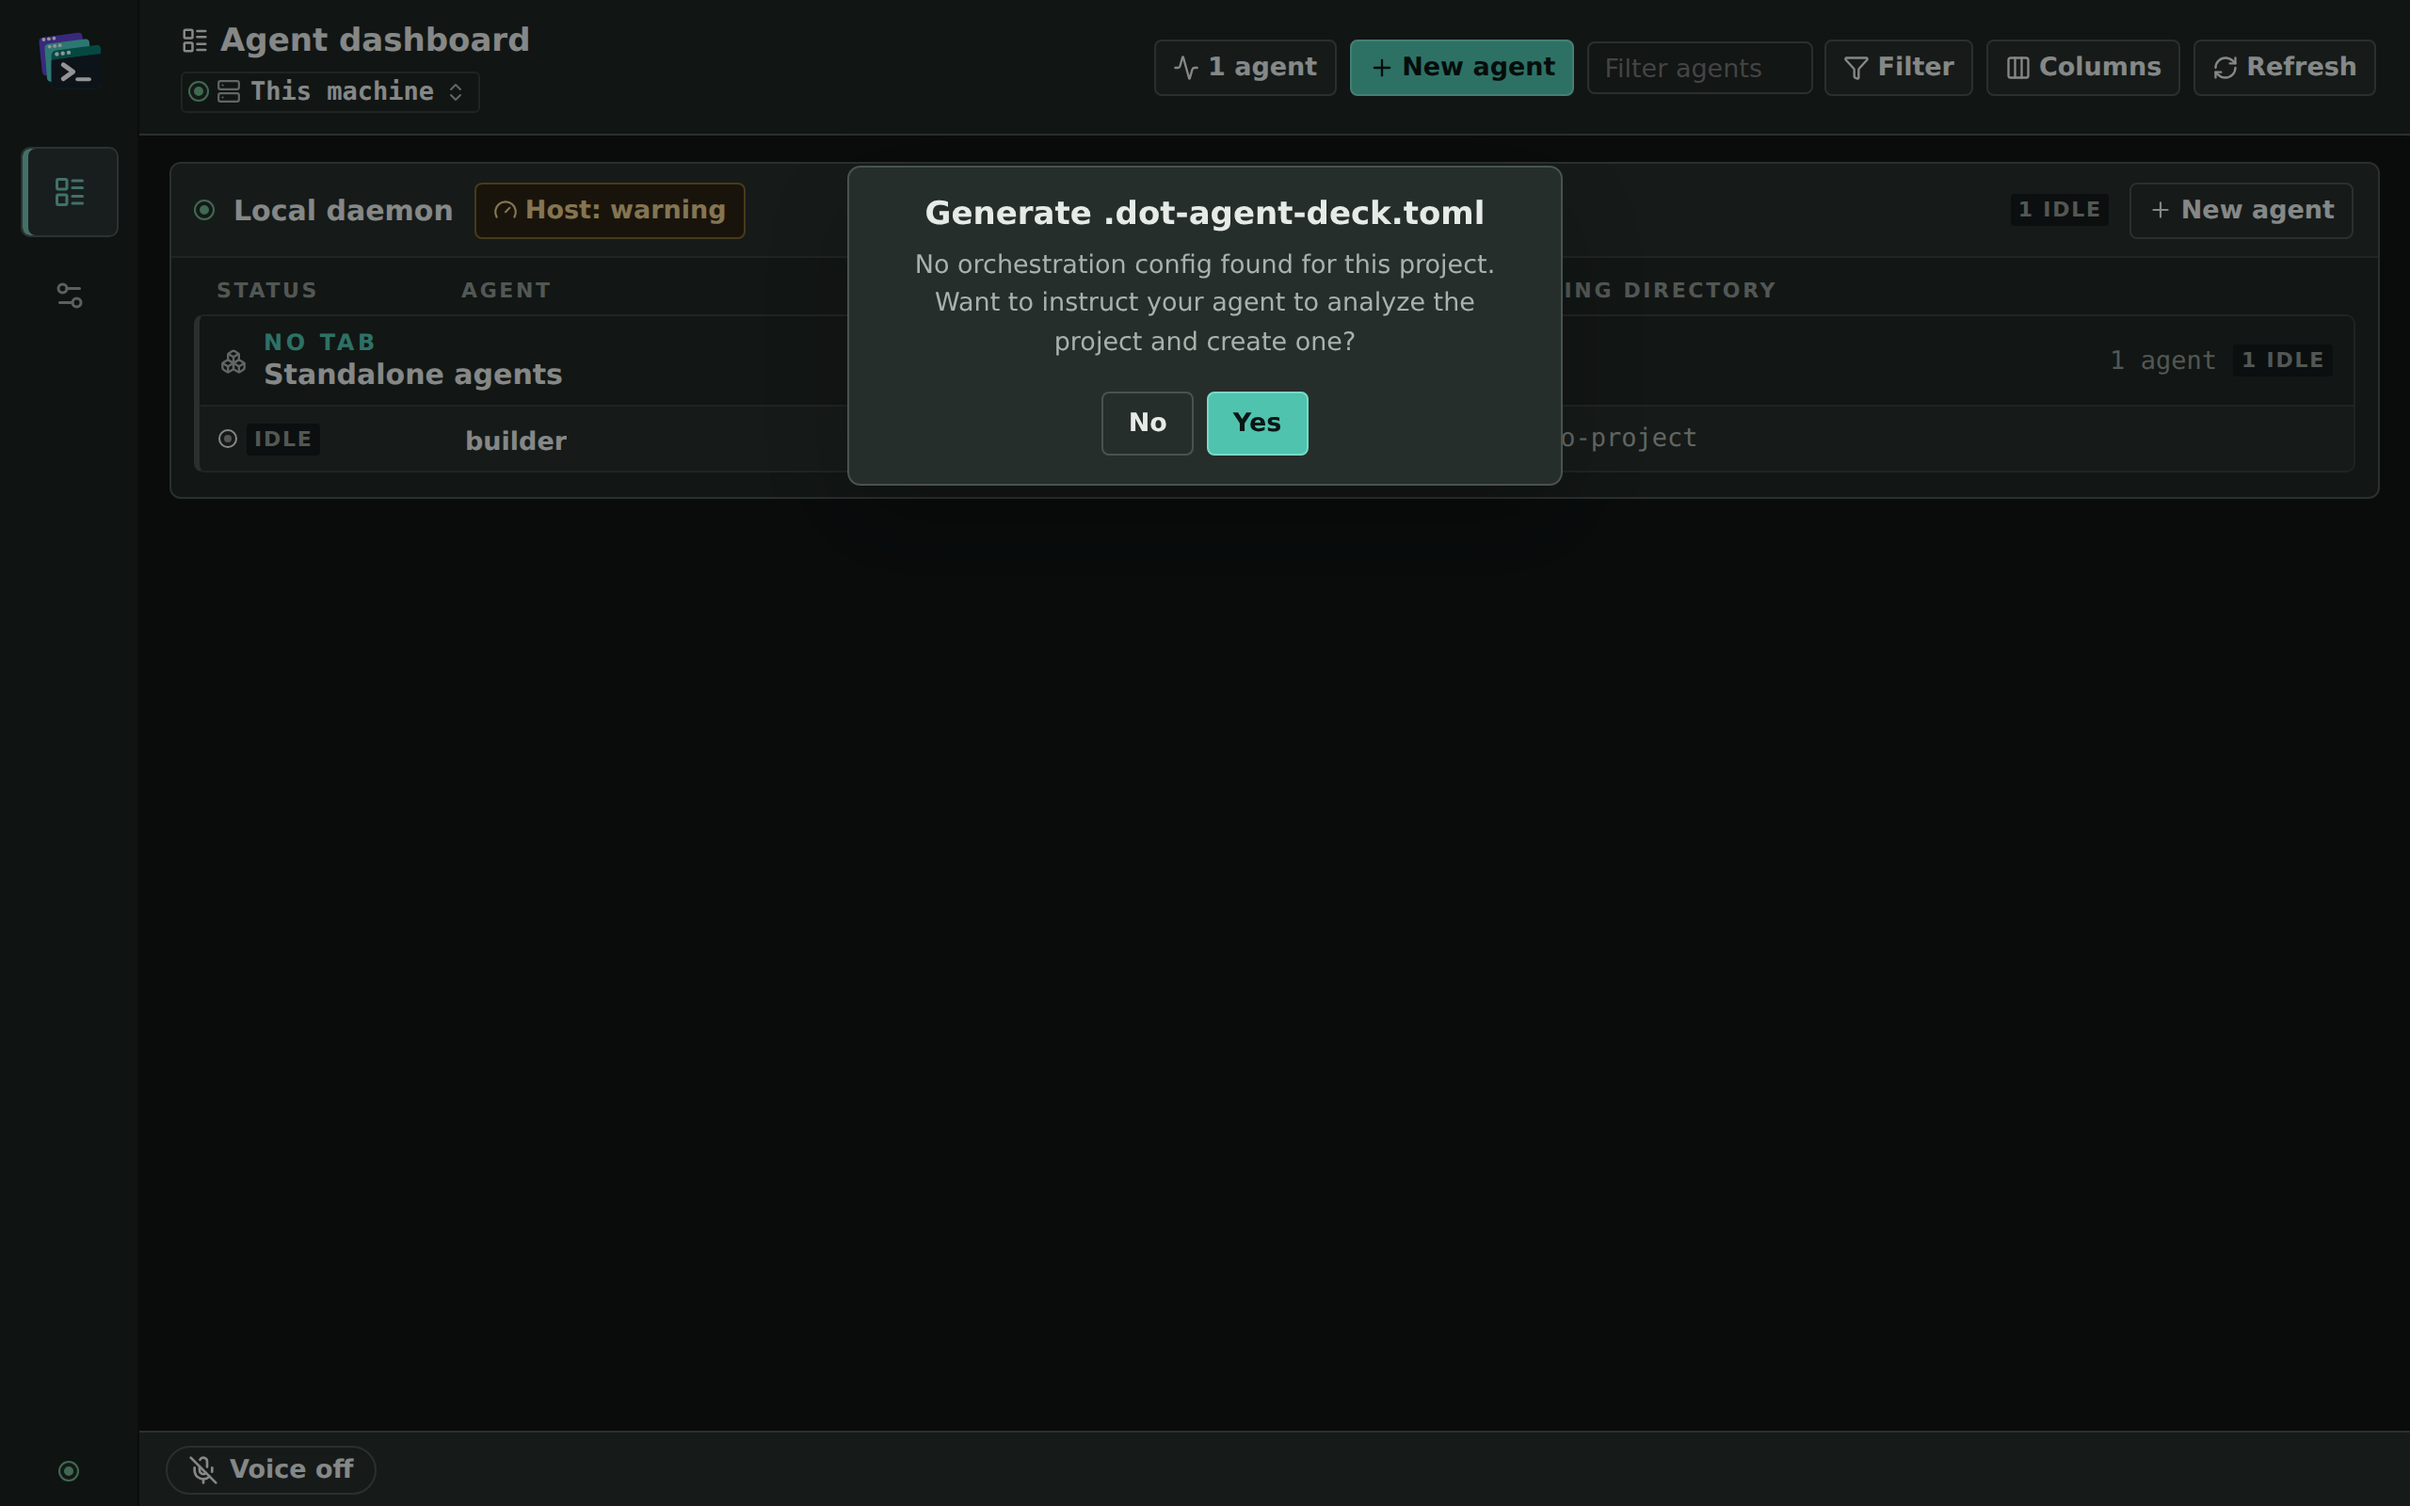
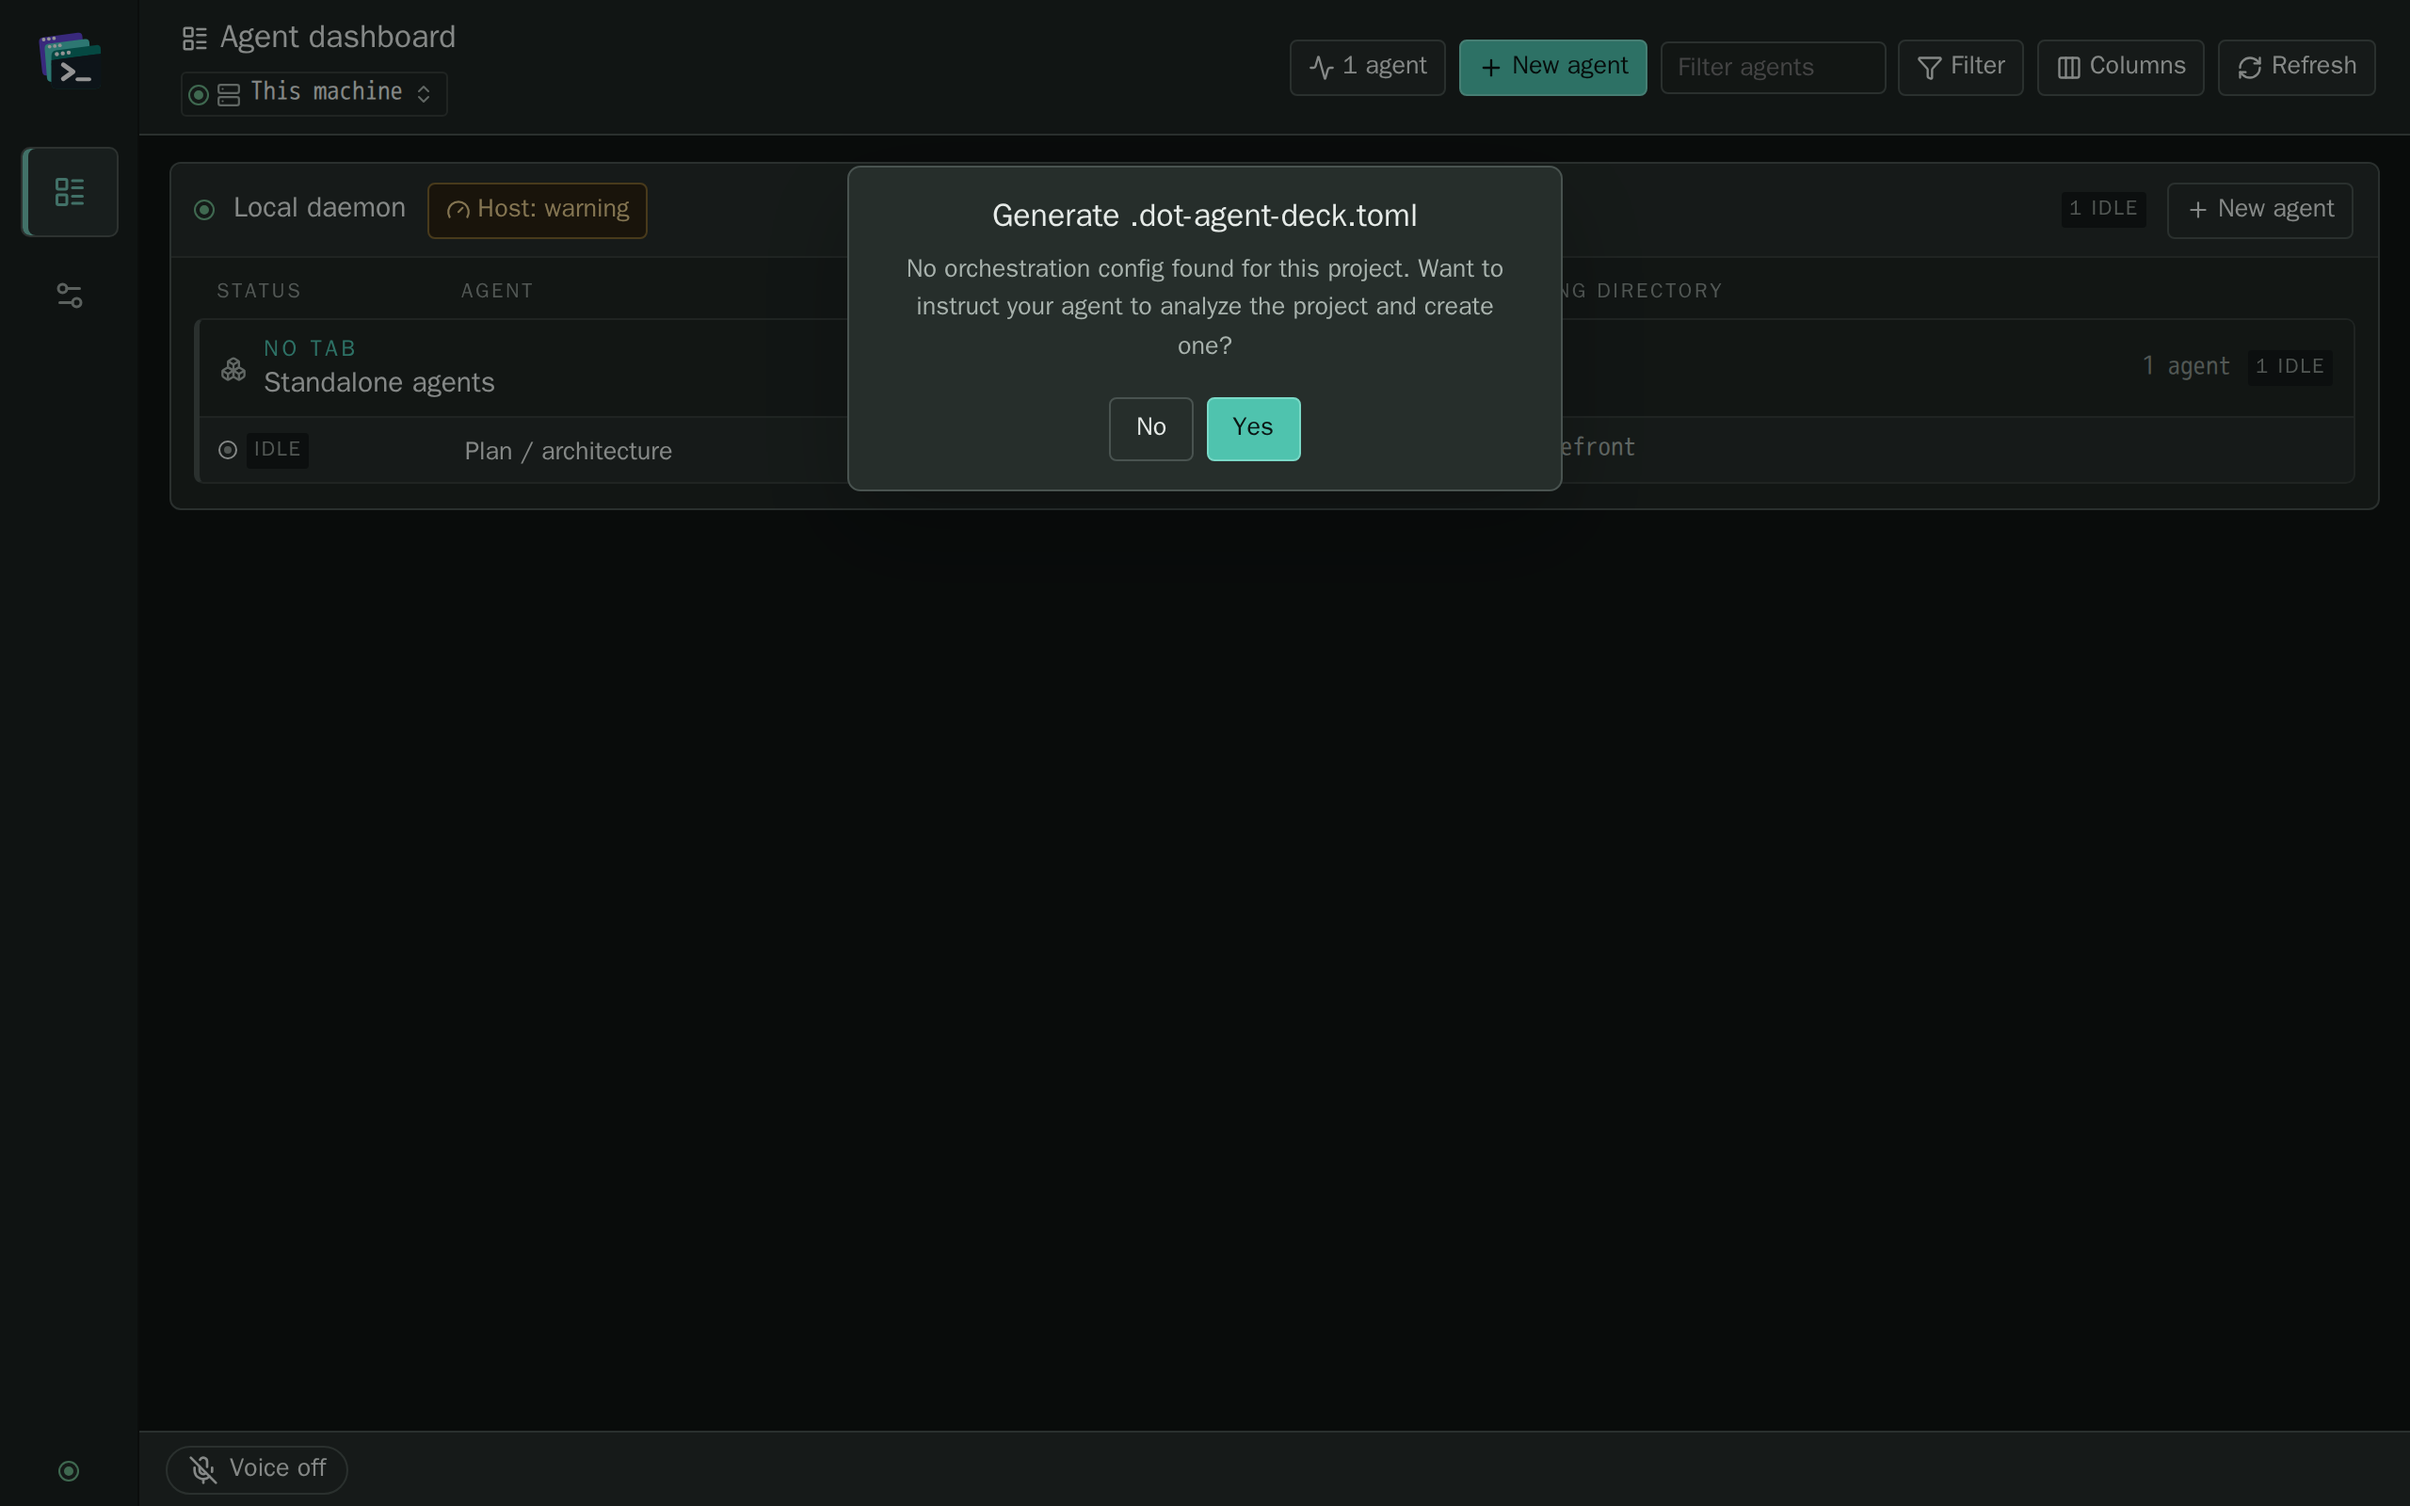
docs(screenshots): generate-config scenario for both clients (#2119)
Register generate-config in the screenshot scenarios with a TUI capture
(one stand-in pane, Ctrl+D, g) and a desktop capture (a docs-generate
fixture state whose one agent has a pane, then the row's Generate config
button), and regenerate both images with cargo docs-screenshots so they
replace the hand-made ones. The docs fixture state is untouched, so no
other image moves.

diff --git a/desktop/screenshots/desktop.shot.ts b/desktop/screenshots/desktop.shot.ts
@@ -9,7 +9,7 @@ import { desktopScenario } from "./support";
  */
 
 /** Load a fixture state and open the agent dashboard through its rail control. */
-async function overview(page: Page, state: "docs" | "docs-fleet" | "docs-pr" | "docs-restart" | "empty"): Promise<void> {
+async function overview(page: Page, state: "docs" | "docs-fleet" | "docs-pr" | "docs-generate" | "docs-restart" | "empty"): Promise<void> {
   await page.goto(`/?fixture=1&state=${state}`);
   await expect(page.getByRole("complementary", { name: "Primary navigation" })).toBeVisible();
   await page.getByTestId("open-overview").click();
@@ -75,6 +75,19 @@ desktopScenario("host-metrics", async (page) => {
   await expect(page.getByTestId("host-metrics")).toContainText("6 GiB free of 64 GiB total (warning)");
   await expect(page.getByTestId("host-metrics")).toContainText("Memory available43.5 GiB");
   await expect(page.getByTestId("host-metrics-popover").getByRole("button", { name: "Close host" })).toBeVisible();
+});
+
+// PRD #2119 — the Generate config confirmation the TUI `generate-config` image
+// shows, opened from the Plan / architecture row's button: the fixture's
+// `docs-generate` state, whose one agent has a pane.
+desktopScenario("generate-config", async (page) => {
+  await overview(page, "docs-generate");
+  await expect(page.locator(".overview-row")).toHaveCount(1);
+  await page.getByRole("button", { name: "Generate config with Plan / architecture agent" }).click();
+  const dialog = page.getByRole("alertdialog", { name: "Generate .dot-agent-deck.toml" });
+  await expect(dialog).toBeVisible();
+  await expect(dialog.getByRole("button", { name: "Yes", exact: true })).toBeVisible();
+  await expect(dialog.getByRole("button", { name: "No", exact: true })).toBeVisible();
 });
 
 // The two agents the TUI `restart-notice` image names, stopped by a restart of

diff --git a/desktop/src/data/fixture.ts b/desktop/src/data/fixture.ts
@@ -48,7 +48,7 @@ export const FIXTURE_UNREACHABLE_DAEMON_ID = "ci@runner-7";
 export const FIXTURE_PENDING_DAEMON_ID = "ops@edge-3";
 
 /** Which scenario `createFixtureFleet` builds; selected by `?state=`. */
-export type FixtureState = "connected" | "disconnected" | "error" | "empty" | "crowded" | "fleet" | "docs" | "docs-pr" | "docs-fleet" | "voice-pages" | "upgrade" | "upgrade-error" | "hook-notice" | "docs-question" | "docs-restart";
+export type FixtureState = "connected" | "disconnected" | "error" | "empty" | "crowded" | "fleet" | "docs" | "docs-pr" | "docs-generate" | "docs-fleet" | "voice-pages" | "upgrade" | "upgrade-error" | "hook-notice" | "docs-question" | "docs-restart";
 
 /**
  * PRD #1487 M5 — the versions the `upgrade` scenarios play: this app's, and the
@@ -1311,6 +1311,14 @@ export function createFixtureSnapshot(state: FixtureState = "connected"): DeckSn
         },
       }],
     };
+  }
+  // PRD #2119 — the `generate-config` docs scene: the docs deck narrowed to
+  // its Plan / architecture agent, the one the TUI `generate-config` image
+  // shows, given a pane so the row offers Generate config. A state of its own
+  // so the `docs` agents, and every image drawn from them, stay paneless.
+  if (state === "docs-generate") {
+    const snapshot = createFixtureSnapshot("docs");
+    return { ...snapshot, agents: [{ ...snapshot.agents[0], paneId: "docs-plan" }] };
   }
   // `fleet` is a THREE-deck scenario and has no single snapshot, so a caller
   // asking for one gets the deck the single-deck screens are on — never the

diff --git a/desktop/src/lib/bridge.ts b/desktop/src/lib/bridge.ts
@@ -3128,7 +3128,7 @@ export function mapDesktopSnapshot(dto: DesktopSnapshotDto, previous?: DeckSnaps
  * reachable from the URL — the previous inline `||` chain had to be edited in
  * lockstep with the fixture and was not.
  */
-const FIXTURE_STATES: readonly FixtureState[] = ["connected", "crowded", "disconnected", "error", "empty", "fleet", "docs", "docs-pr", "docs-fleet", "voice-pages", "upgrade", "upgrade-error", "hook-notice", "docs-question", "docs-restart"];
+const FIXTURE_STATES: readonly FixtureState[] = ["connected", "crowded", "disconnected", "error", "empty", "fleet", "docs", "docs-pr", "docs-generate", "docs-fleet", "voice-pages", "upgrade", "upgrade-error", "hook-notice", "docs-question", "docs-restart"];
 
 class FixtureDeckBridge implements DeckBridge {
   readonly mode = "fixture" as const;

diff --git a/tests/e2e_docs_screenshots.rs b/tests/e2e_docs_screenshots.rs
@@ -834,6 +834,94 @@ printf '%s\n' '[{"number":1234,"headRefName":"feat/pr-badge","state":"OPEN","isD
     });
 }
 
+/// Scenario: Open one stand-in agent's pane through the new-pane form, give it
+/// its fixed type, prompt and Idle status through hook events addressed to its
+/// pane, go back to the dashboard with `Ctrl+D` and press `g` on its card. Once
+/// the Generate .dot-agent-deck.toml dialog shows `> Yes` and `No` over the
+/// card and its pane, with the status dot lit, write the frame as
+/// `generate-config-tui.html`.
+#[test]
+#[ignore = "docs-screenshot generator: run it with `cargo docs-screenshots`"]
+fn docs_screenshot_generate_config() {
+    html_dir();
+    // The events come from this process, which is not the pane and so cannot
+    // present the per-pane capability the daemon gives each pane's own agent.
+    let deck = launch_with(|builder| {
+        builder
+            .with_launch_subdir(LAUNCH_DIR)
+            .impersonating_pane_signals()
+    });
+    deck.wait_for_string("No active agents");
+    let stand_ins = deck.workdir().join("docs-stand-ins");
+    let commands = write_stand_ins(&stand_ins);
+    // The desktop half shows this same agent (`docs-generate` in
+    // `desktop/src/data/fixture.ts`). `open_pane` ends with `Ctrl+D`, back on
+    // the dashboard with the new pane's card selected.
+    let agent = &DASHBOARD_AGENTS[0];
+    open_pane(&deck, agent, &commands[0], "");
+    let names = std::fs::read_to_string(env_names_path(&stand_ins, agent)).unwrap();
+    for key in common::AGENT_CREDENTIAL_ENV {
+        assert!(
+            !names.lines().any(|name| name == key),
+            "{key} reached the screenshot pane"
+        );
+    }
+    let record = wait_for_record(&deck, agent.name, |_| true);
+    let pane_id = record.pane_id_env.clone().expect("screenshot pane id");
+    send(
+        &deck,
+        serde_json::json!({
+            "session_id": agent.session,
+            "agent_type": agent.agent_type,
+            "event_type": "session_start",
+            "timestamp": (Utc::now() - ChronoDuration::minutes(agent.up_for_minutes)).to_rfc3339(),
+            "cwd": agent.cwd,
+            "pane_id": pane_id,
+            "agent_id": record.id,
+            "metadata": { "display_name": agent.name },
+        }),
+    );
+    wait_for_record(&deck, agent.name, |r| {
+        r.live.as_ref().is_some_and(|live| {
+            live.agent_type.as_ref().map(|kind| serde_json::json!(kind))
+                == Some(serde_json::Value::from(agent.agent_type))
+        })
+    });
+    // Stamped ahead of the clock, so the card reads `Last: 0s` on every run.
+    send(
+        &deck,
+        serde_json::json!({
+            "session_id": agent.session,
+            "agent_type": agent.agent_type,
+            "event_type": agent.status_event,
+            "timestamp": (Utc::now() + ChronoDuration::seconds(30)).to_rfc3339(),
+            "cwd": agent.cwd,
+            "pane_id": pane_id,
+            "agent_id": record.id,
+            "user_prompt": agent.prompt,
+        }),
+    );
+    wait_for_record(&deck, agent.name, |r| {
+        r.live
+            .as_ref()
+            .is_some_and(|live| live.last_user_prompt.as_deref() == Some(agent.prompt))
+    });
+    deck.send_keys(b"g");
+    capture(&deck, "generate-config", |grid| {
+        grid.contains("Generate .dot-agent-deck.toml")
+            && grid.contains("> Yes")
+            && grid.contains("No ")
+            && grid.contains("[Yes] [No]")
+            && grid.contains(agent.name)
+            && grid.contains(agent.prompt)
+            && grid.contains("Last: 0s ")
+            && grid.contains("Proposed retry design:")
+            // An idle card blinks its status dot (see the `dashboard`
+            // capture); exactly one `●` means the image shows it lit.
+            && grid.matches('●').count() == 1
+    });
+}
+
 /// Scenario: Choose the sandbox project's directory through Ctrl+N and show
 /// the New Agent form before starting any command.
 #[test]

diff --git a/xtask/screenshots/src/scenarios.rs b/xtask/screenshots/src/scenarios.rs
@@ -107,6 +107,11 @@ pub const SCENARIOS: &[Scenario] = &[
         clients: &[Client::Tui, Client::Desktop],
     },
     Scenario {
+        name: "generate-config",
+        description: "The Generate .dot-agent-deck.toml confirmation, Yes and No, opened on one agent: in the TUI with `g` on its card beside its pane, on the desktop from its Dashboard row's Generate config button.",
+        clients: &[Client::Tui, Client::Desktop],
+    },
+    Scenario {
         name: "agent-messaging",
         description: "Planner and builder working with one queued inbox message each.",
         clients: &[Client::Tui, Client::Desktop],
